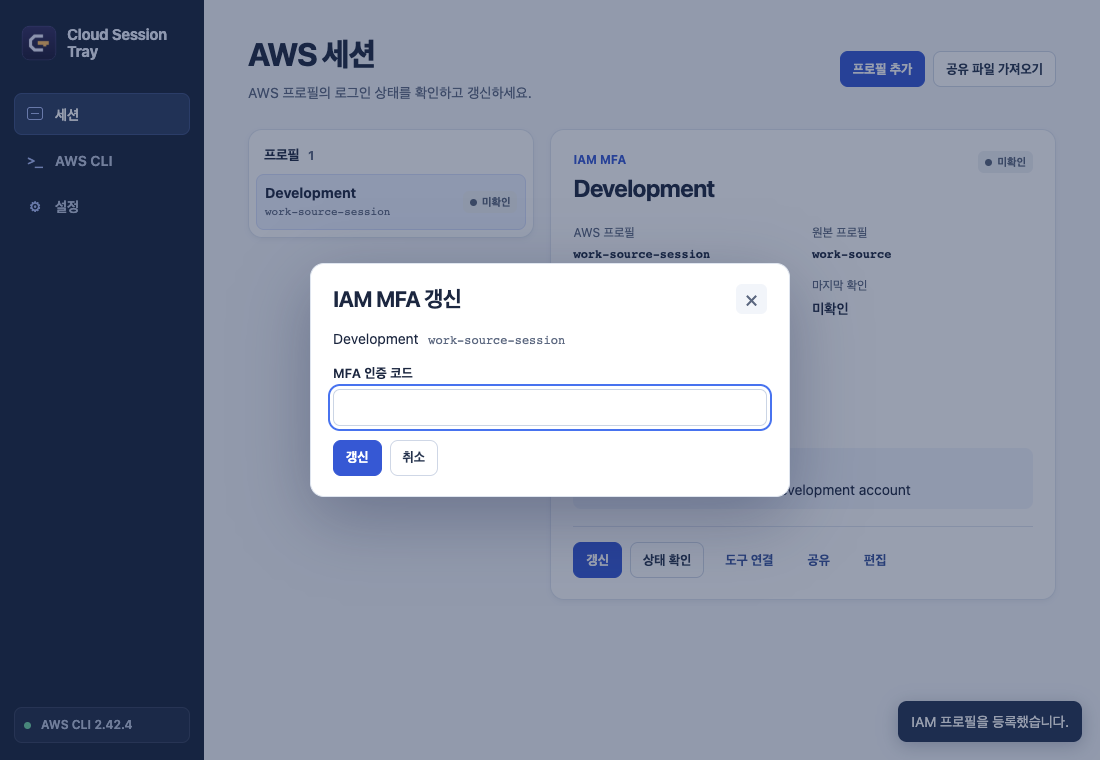
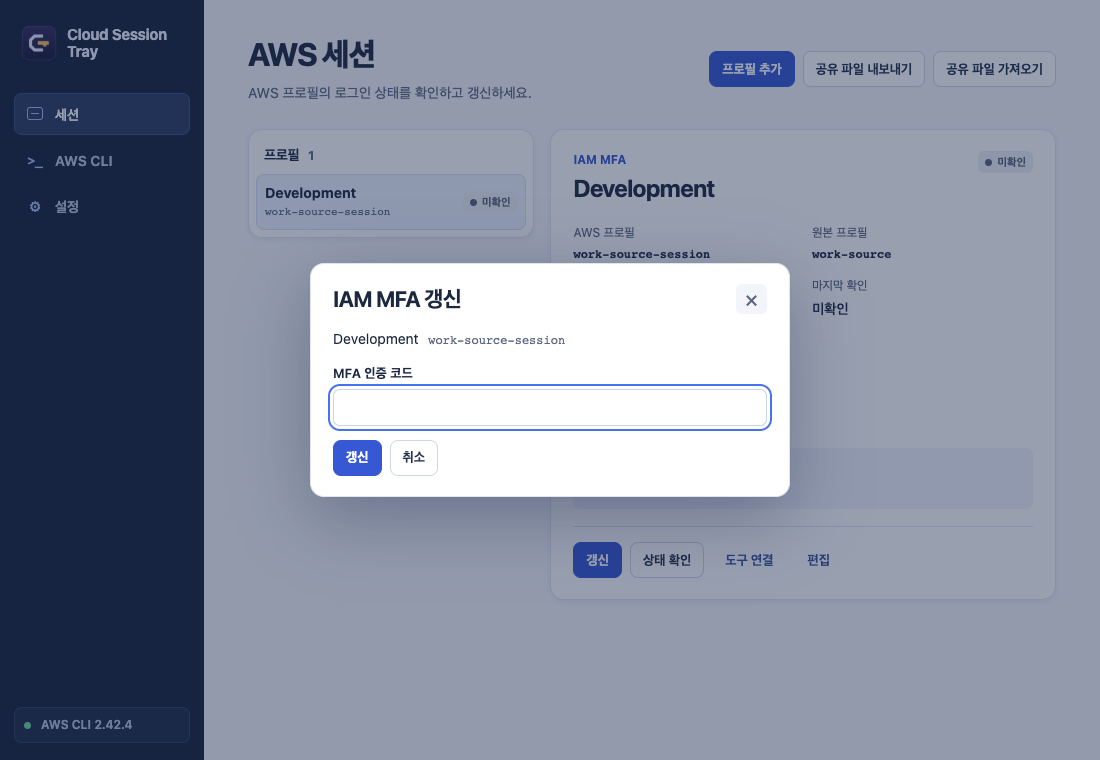
feat: surface profile share export and document transfers

diff --git a/tests/e2e/manual.e2e.ts b/tests/e2e/manual.e2e.ts
@@ -16,6 +16,7 @@ async function capture(page: Page, name: string, next?: Locator): Promise<void> 
       path: fileURLToPath(new URL(`../../docs/assets/${isEnglish() ? "en/" : ""}${name}.png`, import.meta.url)),
       animations: "disabled",
       style: `:focus-visible { outline: none !important; }
+        .flash:not(.flash-error) { visibility: hidden; }
         [data-manual-focus] { outline: 2px solid #4873ef !important; outline-offset: 3px !important; }`,
     });
   } finally {
@@ -23,9 +24,14 @@ async function capture(page: Page, name: string, next?: Locator): Promise<void> 
   }
 }
 
-test("installs AWS CLI, registers an IAM profile, and renews the first session", async ({ page }) => {
+test("connects and renews an IAM session, then exports and imports its settings", async ({ page }) => {
   const labels = copy();
+  const task = isEnglish() ? "Check AWS resources in the development account" : "개발 계정의 AWS 리소스 확인";
   await page.goto(fixture);
+  const exportFile = page.getByRole("button", { name: labels["share.export"], exact: true });
+  const importFile = page.getByRole("button", { name: labels["common.importShare"], exact: true });
+  await expect(exportFile).toBeDisabled();
+  await expect(importFile).toBeEnabled();
   await page.getByRole("button", { name: labels["sessions.openCli"] }).click();
   const installer = page.getByRole("button", { name: labels["cli.download"] });
   await expect(installer).toBeVisible();
@@ -60,7 +66,7 @@ test("installs AWS CLI, registers an IAM profile, and renews the first session",
   await findDevice.click();
   await expect(editor.getByLabel(labels["editor.mfaDevice"])).toHaveValue("arn:aws:iam::123456789012:mfa/example");
   await editor.getByLabel(labels["editor.displayName"]).fill("Development");
-  await editor.getByLabel(labels["common.optionalTask"]).fill("Check AWS resources in the development account");
+  await editor.getByLabel(labels["common.optionalTask"]).fill(task);
   await editor.getByRole("button", { name: labels["common.save"] }).click();
 
   await page.getByRole("button", { name: labels["common.renew"], exact: true }).click();
@@ -74,6 +80,33 @@ test("installs AWS CLI, registers an IAM profile, and renews the first session",
   await expect(session.getByText(labels["sessions.available"])).toBeVisible();
   await expect(session.getByText("123456789012", { exact: true })).toBeVisible();
   await capture(page, "sessions");
+
+  await test.step("exports a share file and imports its settings", async () => {
+    await exportFile.click();
+    const share = page.getByRole("dialog", { name: labels["share.title"] });
+    const target = share.getByLabel(labels["common.targetProfile"]);
+    await expect(target).toHaveValue("work-source-session");
+    await target.fill("team-dev-session");
+    const saveShare = share.getByRole("button", { name: labels["share.export"], exact: true });
+    await capture(page, "share-export", saveShare);
+    await saveShare.click();
+    await expect(share.getByRole("status")).toHaveText(labels["share.exported"]);
+    await share.getByRole("button", { name: labels["common.close"], exact: true }).click();
+
+    await importFile.click();
+    const preview = page.getByRole("dialog", { name: labels["share.importTitle"] });
+    await expect(preview.getByLabel(labels["common.targetProfile"])).toHaveValue("team-dev-session");
+    await expect(preview.getByText(task)).toBeVisible();
+    const openIam = preview.getByRole("button", { name: labels["share.openIam"] });
+    await capture(page, "share-import", openIam);
+    await openIam.click();
+    await expect(editor.getByLabel(labels["common.targetProfile"])).toHaveValue("team-dev-session");
+    await expect(editor.getByLabel(labels["common.optionalTask"])).toHaveValue(task);
+    await findDevice.click();
+    await expect(editor.getByLabel(labels["editor.mfaDevice"])).toHaveValue("arn:aws:iam::123456789012:mfa/example");
+    await editor.getByRole("button", { name: labels["common.save"] }).click();
+    await expect(session.getByText("team-dev-session", { exact: true })).toBeVisible();
+  });
 });
 
 test("connects an IAM Identity Center profile", async ({ page }) => {

diff --git a/docs/ko/index.html b/docs/ko/index.html
@@ -59,13 +59,15 @@
     </section>
 
     <section class="wrap manual" id="manual">
-      <h2 class="section-title">첫 AWS 세션 설정하기</h2>
+      <h2 class="section-title">AWS 세션 사용 매뉴얼</h2>
       <p>AWS CLI를 연결한 다음, 계정에 맞는 인증 방식으로 세션을 추가하세요.</p>
       <nav class="manual-nav" aria-label="매뉴얼 목차">
         <a href="#aws-cli">AWS CLI</a>
         <a href="#iam">IAM MFA</a>
         <a href="#identity-center">Identity Center</a>
         <a href="#renew">세션 갱신</a>
+        <a href="#share-export">공유 파일 내보내기</a>
+        <a href="#share-import">공유 파일 가져오기</a>
       </nav>
 
       <article class="step" id="aws-cli">
@@ -132,6 +134,37 @@
         <figure>
           <a class="screenshot" href="../assets/renew.png"><img src="../assets/renew.png" width="1100" height="760" loading="lazy" alt="MFA 인증 코드 6자리 입력을 요청하는 IAM MFA 갱신 창"></a>
           <figcaption>MFA 장치에 표시된 현재 코드를 입력합니다.</figcaption>
+        </figure>
+      </article>
+
+      <article class="step" id="share-export">
+        <div>
+          <h3>프로필 공유 파일 내보내기</h3>
+          <ol>
+            <li><strong>세션</strong>에서 저장된 프로필을 선택하고 상단의 <strong>공유 파일 내보내기</strong>를 누릅니다. 로컬 프로필을 바로 공유하려면 <strong>AWS CLI</strong> → <strong>로컬 프로필</strong>에서 해당 프로필의 버튼을 누릅니다.</li>
+            <li>공유할 설정을 확인하고, 필요한 경우 프로필 이름이나 작업 메모를 수정합니다.</li>
+            <li>창에서 <strong>공유 파일 내보내기</strong>를 눌러 JSON 파일을 저장한 뒤 팀원에게 전달합니다. 설정 절차를 텍스트로도 전달하려면 <strong>안내 복사</strong>를 누릅니다.</li>
+          </ol>
+          <p>공유 파일에는 프로필 설정과 작업 메모가 담깁니다. AWS 액세스 키, 세션 토큰, MFA 코드는 기기에 남습니다.</p>
+        </div>
+        <figure>
+          <a class="screenshot" href="../assets/share-export.png"><img src="../assets/share-export.png" width="1100" height="760" loading="lazy" alt="프로필 이름, 작업 메모와 공유 파일 내보내기 버튼이 표시된 미리보기 창"></a>
+          <figcaption>파일을 저장하기 전에 팀원에게 전달할 내용을 확인합니다.</figcaption>
+        </figure>
+      </article>
+
+      <article class="step" id="share-import">
+        <div>
+          <h3>프로필 공유 파일 가져오기</h3>
+          <ol>
+            <li><strong>세션</strong> 또는 <strong>AWS CLI</strong> → <strong>로컬 프로필</strong>에서 <strong>공유 파일 가져오기</strong>를 누르고, Cloud Session Tray에서 내보낸 JSON 파일을 선택합니다.</li>
+            <li>미리보기에서 프로필 이름, 설정, 작업 메모를 확인합니다. 필요한 경우 프로필 이름을 바꿉니다.</li>
+            <li>IAM MFA는 <strong>IAM 설정 열기</strong>를 눌러 본인의 로컬 IAM 원본 프로필과 MFA 장치를 선택하고 <strong>저장</strong>합니다. Identity Center는 <strong>프로필 가져오기</strong>를 누른 뒤 세션을 선택하고 <strong>갱신</strong>을 눌러 로그인합니다.</li>
+          </ol>
+        </div>
+        <figure>
+          <a class="screenshot" href="../assets/share-import.png"><img src="../assets/share-import.png" width="1100" height="760" loading="lazy" alt="공유 파일의 설정과 IAM 설정 열기 버튼이 표시된 가져오기 미리보기 창"></a>
+          <figcaption>본인의 AWS 자격 증명을 연결하기 전에 가져올 설정을 확인합니다.</figcaption>
         </figure>
       </article>
     </section>

diff --git a/docs/index.html b/docs/index.html
@@ -60,13 +60,15 @@
     </section>
 
     <section class="wrap manual" id="manual">
-      <h2 class="section-title">Set up your first AWS session</h2>
+      <h2 class="section-title">AWS session manual</h2>
       <p>The app follows your system language. Choose a different display language in Settings.</p>
       <nav class="manual-nav" aria-label="Manual sections">
         <a href="#aws-cli">AWS CLI</a>
         <a href="#iam">IAM MFA</a>
         <a href="#identity-center">Identity Center</a>
         <a href="#renew">Renew a session</a>
+        <a href="#share-export">Export share file</a>
+        <a href="#share-import">Import share file</a>
       </nav>
 
       <article class="step" id="aws-cli">
@@ -133,6 +135,37 @@
         <figure>
           <a class="screenshot" href="assets/en/renew.png"><img src="assets/en/renew.png" width="1100" height="760" loading="lazy" alt="IAM MFA renewal dialog asking for a six-digit code"></a>
           <figcaption>Enter the current code from your MFA device.</figcaption>
+        </figure>
+      </article>
+
+      <article class="step" id="share-export">
+        <div>
+          <h3>Export a profile share file</h3>
+          <ol>
+            <li>Select a saved profile in <strong>Sessions</strong> and click <strong>Export share file</strong> at the top. To share a local profile directly, use the button on its row under <strong>AWS CLI</strong> → <strong>Local profiles</strong>.</li>
+            <li>Review the settings and edit the profile name or task note if needed.</li>
+            <li>Click <strong>Export share file</strong> in the dialog, choose where to save the JSON file, and send it to your teammate. Use <strong>Copy instructions</strong> if you also want to send the setup steps as text.</li>
+          </ol>
+          <p>The file contains profile settings and the task note. AWS access keys, session tokens, and MFA codes stay on your device.</p>
+        </div>
+        <figure>
+          <a class="screenshot" href="assets/en/share-export.png"><img src="assets/en/share-export.png" width="1100" height="760" loading="lazy" alt="Share preview showing the profile name, task note, and Export share file button"></a>
+          <figcaption>Review what your teammate will receive before saving the file.</figcaption>
+        </figure>
+      </article>
+
+      <article class="step" id="share-import">
+        <div>
+          <h3>Import a profile share file</h3>
+          <ol>
+            <li>Click <strong>Import share file</strong> in <strong>Sessions</strong> or <strong>AWS CLI</strong> → <strong>Local profiles</strong>, then select the JSON file exported from Cloud Session Tray.</li>
+            <li>Review the profile name, settings, and any task note in the preview. Change the profile name if needed.</li>
+            <li>For IAM MFA, click <strong>Open IAM setup</strong>, select your own local IAM source profile and MFA device, then click <strong>Save</strong>. For Identity Center, click <strong>Import profile</strong>, then select the session and click <strong>Renew</strong> to sign in.</li>
+          </ol>
+        </div>
+        <figure>
+          <a class="screenshot" href="assets/en/share-import.png"><img src="assets/en/share-import.png" width="1100" height="760" loading="lazy" alt="Import preview showing the settings from the share file and the Open IAM setup button"></a>
+          <figcaption>Review the imported settings before connecting your own AWS credentials.</figcaption>
         </figure>
       </article>
     </section>

diff --git a/tests/e2e/fixture.ts b/tests/e2e/fixture.ts
@@ -1,6 +1,6 @@
 import { mountApplication } from "../../src/app";
 import type { DesktopApi } from "../../src/desktop-api";
-import type { Dashboard, Profile } from "../../src/domain";
+import { profileName, type Dashboard, type Profile, type SharedProfile } from "../../src/domain";
 import { element } from "../../src/ui/html";
 import "../../src/style.css";
 
@@ -30,6 +30,7 @@ function profile(name: string, kind: "sso" | "iamSource", region: string | null)
 const ssoProfile = profile("team-dev", "sso", "ap-northeast-2");
 const profiles = sso ? [ssoProfile] : [];
 let cliInstalled = sso;
+let shareFile: string | undefined;
 const unavailable = async () => { throw new Error("Unexpected desktop action in browser test"); };
 
 function markAvailable(id: string): void {
@@ -56,11 +57,12 @@ const api: DesktopApi = {
   mfaDevices: async () => [device],
   configureSso: async () => profiles,
   saveSession: async ({ login, label, task }) => {
+    const id = profileName(login);
     dashboard.sessions.push({
-      id: "example", login, label, task, status: "unknown", phase: null, canCancel: false,
+      id, login, label, task, status: "unknown", phase: null, canCancel: false,
       identity: null, checkedAt: null, expiresAt: null, checkMessage: null, activity: null,
     });
-    return "example";
+    return id;
   },
   renewMfa: async (id, otp) => {
     if (otp !== "123456") throw new Error("Incorrect example OTP");
@@ -77,9 +79,21 @@ const api: DesktopApi = {
   openDocs: unavailable,
   toolConnection: unavailable,
   testConnection: unavailable,
-  prepareShare: unavailable,
-  saveShare: unavailable,
-  openShare: unavailable,
+  prepareShare: async (name, task) => {
+    const session = dashboard.sessions.find(({ login }) => login.kind === "iamMfa" && login.target === name);
+    if (!session || session.login.kind !== "iamMfa") throw new Error(`No example IAM session for ${name}`);
+    const { source, duration, region } = session.login;
+    const sourceRegion = profiles.find((item) => item.name === source)?.region;
+    return {
+      version: 1, profile: name, label: session.label, task, region: region ?? sourceRegion ?? null,
+      authentication: { kind: "iamMfa", sourceHint: source, duration },
+    };
+  },
+  saveShare: async (shared) => {
+    shareFile = JSON.stringify(shared);
+    return true;
+  },
+  openShare: async () => shareFile ? JSON.parse(shareFile) as SharedProfile : null,
   importSso: unavailable,
 };
 

diff --git a/tests/application.test.ts b/tests/application.test.ts
@@ -320,11 +320,15 @@ describe("External tool profile workflows", () => {
   });
 
   it("includes the exact destination and task in the export guide", async () => {
-    const { api } = backend({ sessions: [mockSession("work-id", "Team dev", {
-      kind: "iamMfa", source: "default", target: "tech", device: "SERIAL", duration: 43200,
-    })] });
+    const { api } = backend({ sessions: [
+      mockSession("other-id", "Other profile", { kind: "sso", profile: "other" }),
+      mockSession("work-id", "Team dev", {
+        kind: "iamMfa", source: "default", target: "tech", device: "SERIAL", duration: 43200,
+      }),
+    ] });
     mount(api);
-    await click('[data-workflow="share"]');
+    await click('[data-session="work-id"]');
+    await click('.page-header [data-workflow="export"]');
     await vi.waitFor(() => expect(document.querySelector("#workflow[open]")).not.toBeNull());
     const task = element<HTMLTextAreaElement>(document, '#workflow [name="task"]');
     task.value = "Check the deployment";
@@ -337,6 +341,14 @@ describe("External tool profile workflows", () => {
     await vi.waitFor(() => expect(api.saveShare).toHaveBeenCalledWith(expect.objectContaining({
       profile: "tech", task: "Check the deployment",
     })));
+  });
+
+  it("exports the local profile whose row was clicked", async () => {
+    const { api } = backend({}, [profile("local-sso", "sso")]);
+    mount(api);
+    await click('nav [data-page="cli"]');
+    await click('[data-profile="local-sso"][data-workflow="export"]');
+    expect(api.prepareShare).toHaveBeenCalledExactlyOnceWith("local-sso", "");
   });
 
   it("keeps the shared destination and task when a recipient uses their own source", async () => {

diff --git a/src/ui/sessions.ts b/src/ui/sessions.ts
@@ -71,7 +71,6 @@ function sessionActions(session: Session, hasCli: boolean, requiresMfa: boolean)
     <button class="button primary" data-action="renew" ${canStart && !requiresMfa ? "" : "disabled"}>${text("common.renew")}</button>
     <button class="button" data-action="check" ${canStart ? "" : "disabled"}>${text("common.checkStatus")}</button>
     <button class="button subtle" data-workflow="connect" ${hasCli ? "" : "disabled"}>${text("common.connectTools")}</button>
-    <button class="button subtle" data-workflow="share">${text("common.share")}</button>
     ${session.phase ? `<button class="button subtle" data-action="cancel" ${!session.canCancel ? "disabled" : ""}>
       ${session.canCancel ? t("common.cancel") : t("common.canceling")}</button>`
       : `<button class="button subtle" data-action="edit" ${hasCli ? "" : "disabled"}>${text("common.edit")}</button>`}
@@ -105,6 +104,9 @@ export function sessionsPage(state: Dashboard, profiles: Profile[] | null, sessi
   const body = session
     ? `<div class="session-grid">${sessionList(state.sessions, session)}${sessionDetail(session, state.cli)}</div>`
     : onboarding(hasCli, profiles);
-  const actions = `<div class="actions">${add}<button class="button" data-workflow="import">${text("common.importShare")}</button></div>`;
+  const actions = `<div class="actions">${add}
+    <button class="button" data-workflow="export" ${session ? "" : `disabled title="${text("share.selectProfile")}"`}>${text("share.export")}</button>
+    <button class="button" data-workflow="import">${text("common.importShare")}</button>
+  </div>`;
   return header(t("sessions.title"), t("sessions.description"), actions) + banners + body;
 }

diff --git a/tests/e2e/site.e2e.ts b/tests/e2e/site.e2e.ts
@@ -14,6 +14,9 @@ test("links both languages to the matching latest installer on desktop and mobil
   await expect(page.locator("html")).toHaveAttribute("lang", "en");
   await expect(page.getByRole("link", { name: /Download for macOS/ })).toHaveAttribute("href", assets[0].browser_download_url);
   await expect(page.getByRole("link", { name: /Download for Windows/ })).toHaveAttribute("href", assets[1].browser_download_url);
+  await page.getByRole("link", { name: "Export share file", exact: true }).click();
+  await expect(page).toHaveURL(/\/docs\/#share-export$/);
+  await expect(page.getByRole("heading", { name: "Export a profile share file" })).toBeInViewport();
   await page.setViewportSize({ width: 390, height: 844 });
   await page.getByRole("link", { name: "한국어" }).click();
   await expect(page.locator("html")).toHaveAttribute("lang", "ko");
@@ -24,6 +27,9 @@ test("links both languages to the matching latest installer on desktop and mobil
   await page.getByRole("link", { name: "IAM MFA", exact: true }).click();
   await expect(page).toHaveURL(/\/ko\/#iam$/);
   await expect(page.getByRole("heading", { name: "IAM 사용자와 MFA 연결" })).toBeInViewport();
+  await page.getByRole("link", { name: "공유 파일 가져오기", exact: true }).click();
+  await expect(page).toHaveURL(/\/ko\/#share-import$/);
+  await expect(page.getByRole("heading", { name: "프로필 공유 파일 가져오기" })).toBeInViewport();
 });
 
 test.describe("Korean browser", () => {

diff --git a/src/style.css b/src/style.css
@@ -83,7 +83,7 @@ button:disabled { cursor: default; opacity: .5; }
 .rail-status .dot.online { color: #70d4a2; }
 
 main { max-width: 1160px; width: 100%; padding: 36px clamp(22px, 4vw, 50px) 42px; outline: none; }
-.page-header { display: flex; justify-content: space-between; align-items: center; gap: 18px; margin-bottom: 26px; }
+.page-header { display: flex; flex-wrap: wrap; justify-content: space-between; align-items: center; gap: 18px; margin-bottom: 26px; }
 h1 { font-size: 32px; font-weight: 730; letter-spacing: -.04em; line-height: 1.15; }
 h2 { font-size: 19px; font-weight: 680; letter-spacing: -.025em; line-height: 1.3; overflow-wrap: anywhere; }
 h3 { font-size: 15px; }

diff --git a/src/ui/share-dialog.ts b/src/ui/share-dialog.ts
@@ -64,8 +64,8 @@ export function showShareDialog(
     <p class="muted" role="status" data-copy-status></p>
     <p class="form-error" role="alert" hidden></p>
     <div class="actions dialog-actions">
-      <button class="button primary" type="button" data-copy>${text("share.copy")}</button>
-      <button class="button" type="submit">${text("share.export")}</button>
+      <button class="button primary" type="submit">${text("share.export")}</button>
+      <button class="button" type="button" data-copy>${text("share.copy")}</button>
       <button class="button subtle" type="button" data-close="workflow">${text("common.close")}</button>
     </div>
   </form>`;

diff --git a/src/ui/cli.ts b/src/ui/cli.ts
@@ -99,7 +99,7 @@ function profileRow(profile: Profile): string {
     <div class="profile-actions">
       ${attachable ? `<button class="button subtle" data-workflow="adopt" ${attributes}>${text("cli.linkSession")}</button>` : ""}
       ${usable ? `<button class="button subtle" data-workflow="connect" ${attributes}>${text("common.connectTools")}</button>
-        <button class="button subtle" data-workflow="share" ${attributes}>${text("common.share")}</button>` : ""}
+        <button class="button" data-workflow="export" ${attributes}>${text("share.export")}</button>` : ""}
     </div>
   </li>`;
 }

diff --git a/src/profile-workflows.ts b/src/profile-workflows.ts
@@ -26,7 +26,7 @@ export class ProfileWorkflows {
     switch (action) {
       case "import": await this.importProfile(); return;
       case "adopt": await this.adoptProfile(context); return;
-      case "share": {
+      case "export": {
         if (!context.profile) return;
         const shared = await this.api.prepareShare(context.profile, context.task ?? "");
         showShareDialog(this.dialog, shared, (value) => this.api.saveShare(value));

diff --git a/README.ko.md b/README.ko.md
@@ -39,9 +39,11 @@ IAM MFA는 `aws configure mfa-login`을 지원하는 CLI v2가 필요합니다. 
 
 ## 팀 공유
 
-**공유**에서 갱신 대상과 작업 메모를 확인한 뒤 **안내 복사** 또는 **공유 파일 내보내기**를 선택합니다. IAM 공유에는 원본 프로필 힌트, 갱신 대상, 리전과 기간을 담을 수 있습니다. Identity Center 공유에는 로그인 URL, SSO 리전, 계정과 역할을 담습니다. 자격 증명과 OTP는 공유 파일에 포함되지 않습니다.
+**세션**에서 프로필을 선택하고 **공유 파일 내보내기**를 누릅니다. 갱신 대상과 작업 메모를 확인한 뒤 안내를 복사하거나 JSON 파일을 저장합니다. IAM 공유에는 원본 프로필 힌트, 갱신 대상, 리전과 기간을 담을 수 있습니다. Identity Center 공유에는 로그인 URL, SSO 리전, 계정과 역할을 담습니다. 자격 증명과 OTP는 공유 파일에 포함되지 않습니다.
 
 팀원은 **공유 파일 가져오기**에서 설정을 먼저 확인합니다. IAM의 경우 본인의 장기 키가 들어 있는 로컬 원본과 MFA 장치를 선택합니다. Identity Center는 가져온 프로필로 각자 로그인합니다.
+
+[공유 파일 내보내기 매뉴얼](https://sejoung.github.io/cloud-session-tray/ko/#share-export) · [공유 파일 가져오기 매뉴얼](https://sejoung.github.io/cloud-session-tray/ko/#share-import)
 
 ## 진단
 
@@ -63,7 +65,7 @@ npm test
 npm run tauri build
 ```
 
-Playwright용 Chromium을 설치하면 브라우저 E2E를 실행하고 매뉴얼 화면을 다시 캡처할 수 있습니다. 캡처 명령은 예시 데이터로 언어별 화면 6장을 만들어 `docs/assets`에 저장합니다. 앱 화면과 시스템 트레이는 `locales/en.json` 및 `locales/ko.json`의 번역 키를 공유합니다.
+Playwright용 Chromium을 설치하면 브라우저 E2E를 실행하고 매뉴얼 화면을 다시 캡처할 수 있습니다. 캡처 명령은 예시 데이터로 한글과 영문 화면을 만들어 `docs/assets`에 저장합니다. 앱 화면과 시스템 트레이는 `locales/en.json` 및 `locales/ko.json`의 번역 키를 공유합니다.
 
 ```sh
 npx playwright install chromium
